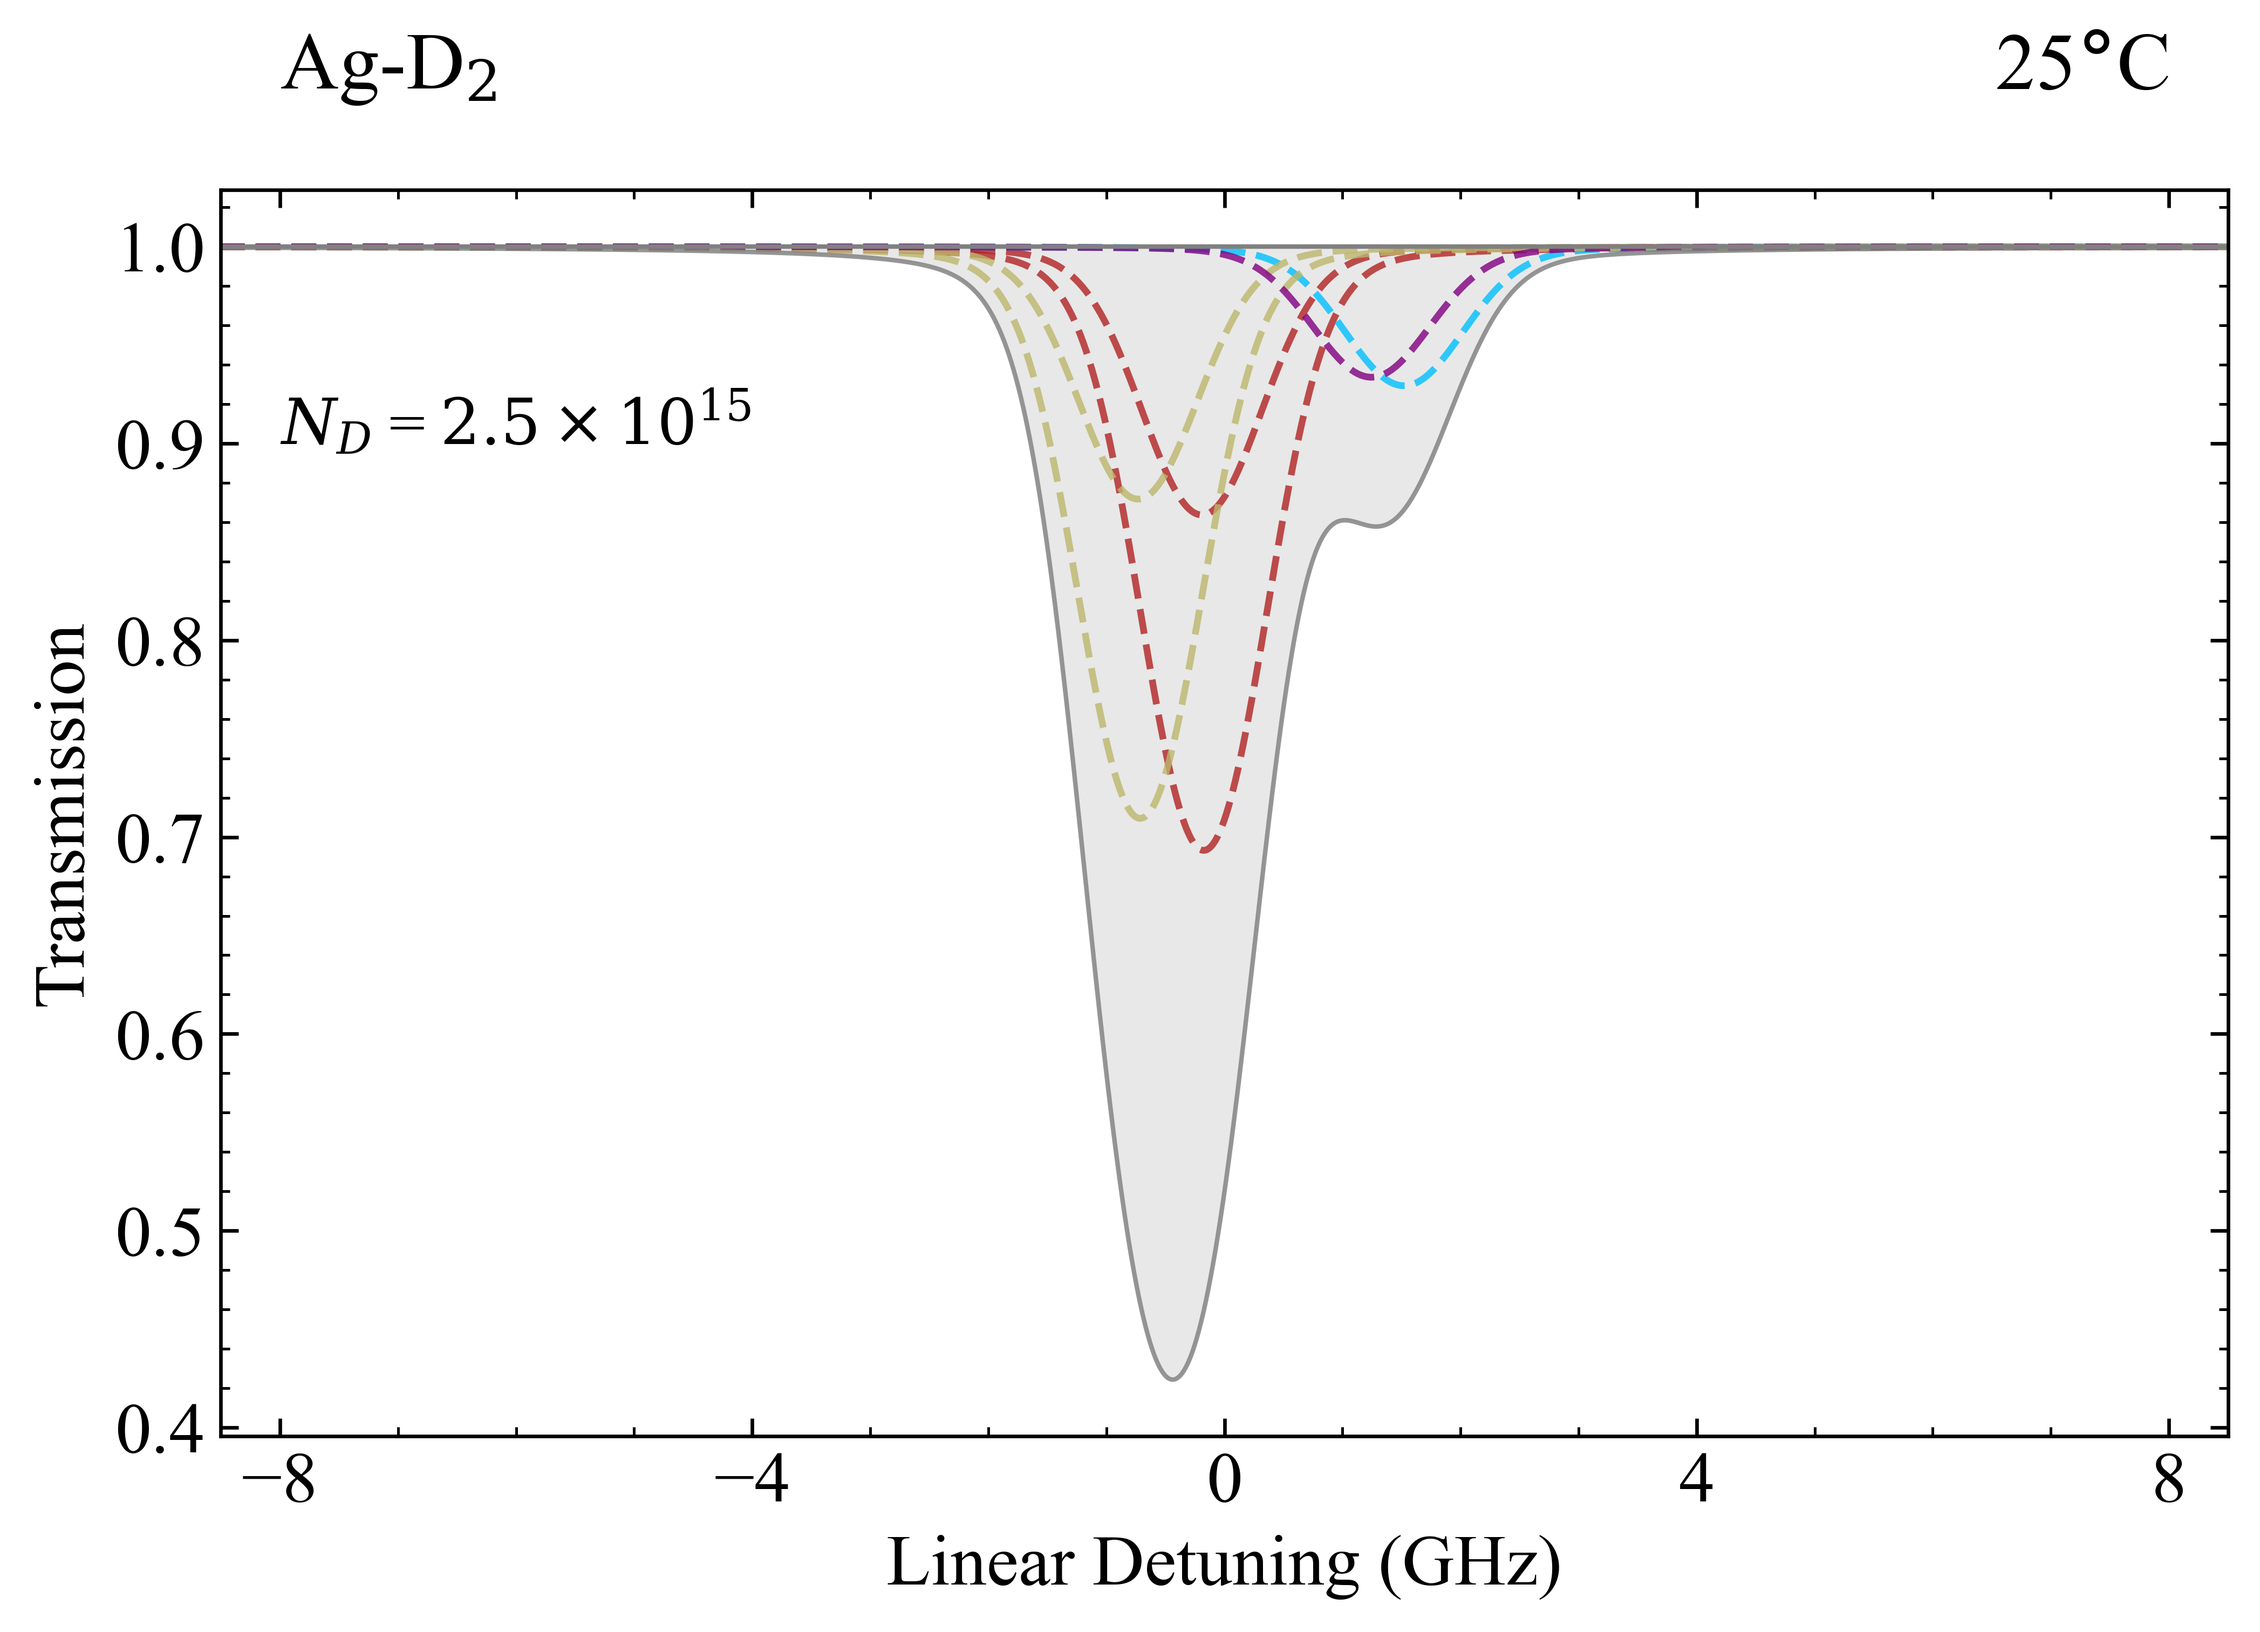
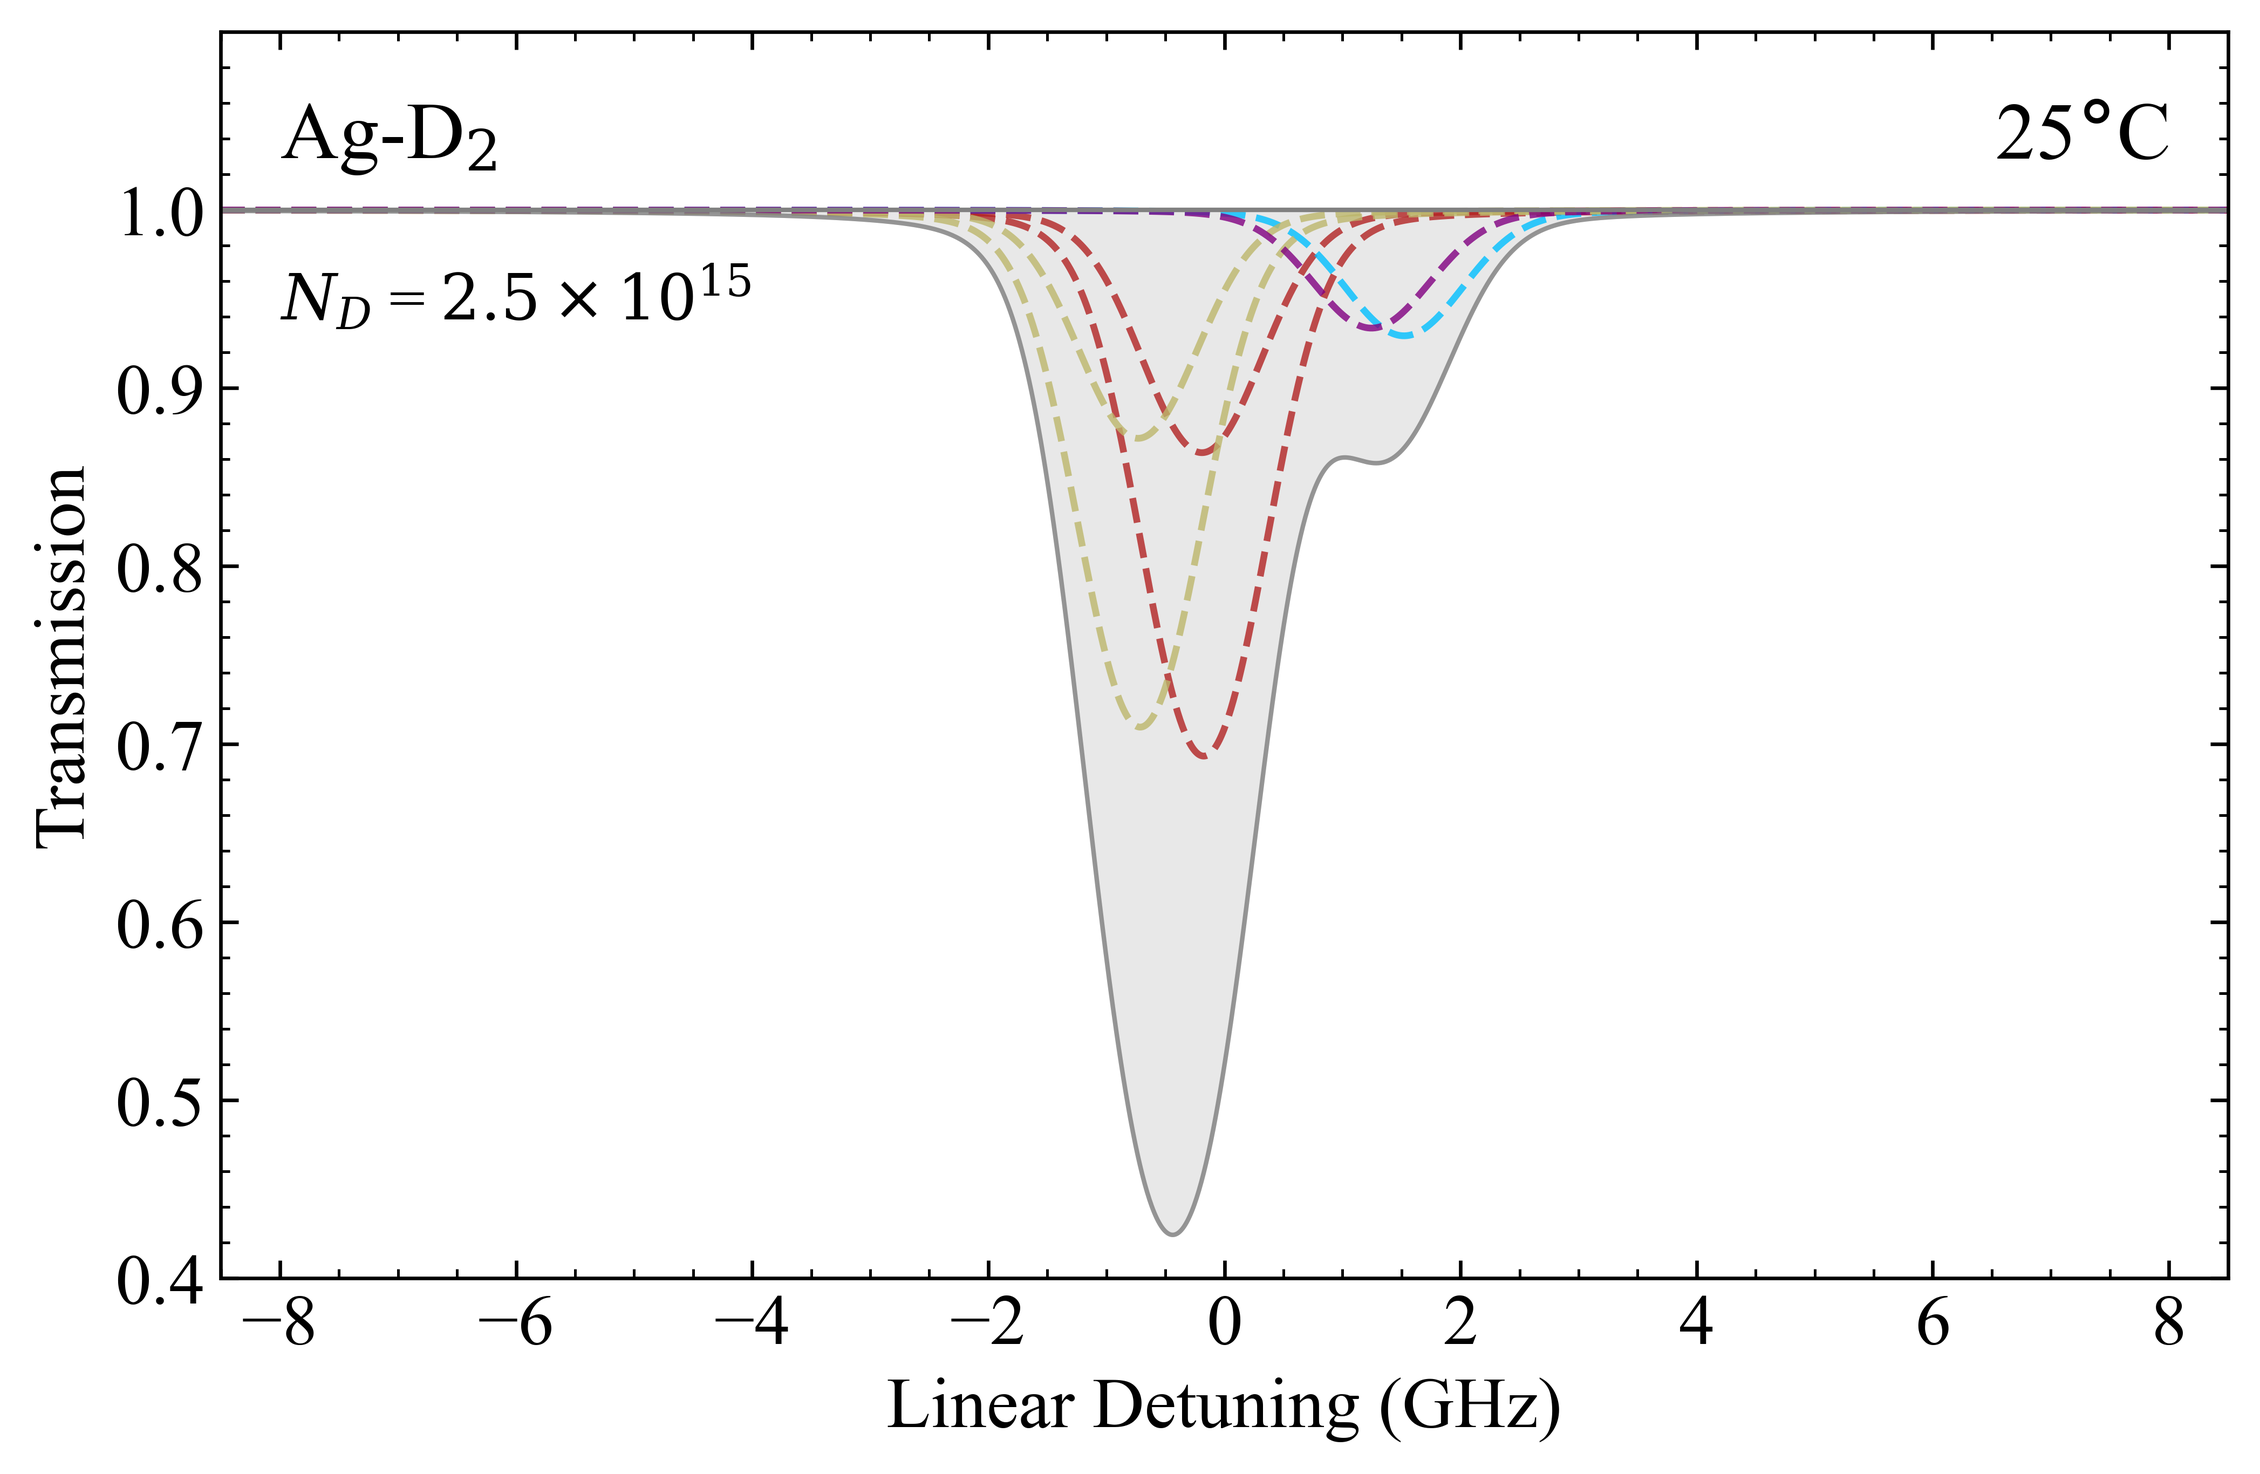
56

diff --git a/elecsus_silver.py b/elecsus_silver.py
@@ -160,8 +160,10 @@ adjust = 0.17
 
 line = int(Dline[-1])
 
-plt.text(x=-8, y=1.09, s=element+"-D$_{}$".format(line), fontsize=fontsz+2, ha = "left", va = "center") ##Ag-D2
-plt.text(x=8, y=1.09, s="{}$\degree$C".format(Temp), fontsize=fontsz+2, ha = "right", va = "center") ##Temperature
+Text_y = 1.04 #1.09
+
+plt.text(x=-8, y=Text_y, s=element+"-D$_{}$".format(line), fontsize=fontsz+2, ha = "left", va = "center") ##Ag-D2
+plt.text(x=8, y=Text_y, s="{}$\degree$C".format(Temp), fontsize=fontsz+2, ha = "right", va = "center") ##Temperature
 
 def format_sci_tex(num):#format long numbers in standard form
 	"""Return LaTeX-style scientific notation, e.g. 3×10¹⁵."""
@@ -170,7 +172,7 @@ def format_sci_tex(num):#format long numbers in standard form
 	return rf"${coeff:.1f} \times 10^{{{exp}}}$"
 
 if choice == 1:
-	plt.text(x=-8, y=0.91, s="$N_D$ = "+format_sci_tex(AgNumberDensity), fontsize=fontsz-2, ha = "left", va = "center") ##Temperature
+	plt.text(x=-8, y=0.95, s="$N_D$ = "+format_sci_tex(AgNumberDensity), fontsize=fontsz-2, ha = "left", va = "center") ##Temperature
 
 if ShowTransPlot:
 	plt.text(x=-8, y=0.12, s="$5^2$S$_{1/2}$", fontsize=fontsz, ha = "left", va = "center")#5s2S1/2
@@ -186,11 +188,12 @@ if ShowTransPlot:
 	img = mpimg.imread(r"C:\Users\Matt\Desktop\Lvl_4\Project\SilverD2Diagram109.png")
 	plt.imshow(img, extent=[-5, 5.2+adjust, 0.05, 0.5], aspect='auto', alpha=0.7)
 
-#plt.ylim([0, 1.2])
+plt.ylim([0.4, 1.1])
 plt.xlim([-8.5,8.5])
 
 #plt.yticks([0.00, 0.25, 0.50, 0.75, 1.00])
-plt.xticks([-8, -4, 0, 4, 8])
+plt.yticks([0.4, 0.5, 0.6, 0.7 ,0.8,0.9, 1.0])
+plt.xticks([-8,-6, -4,-2, 0, 2, 4, 6, 8])
 
 plt.savefig(r"C:\Users\Alienware\OneDrive - Durham University\Level_4_Project\Lvl_4\Project\voigt_adjusted.png", dpi=600, bbox_inches='tight')
 
